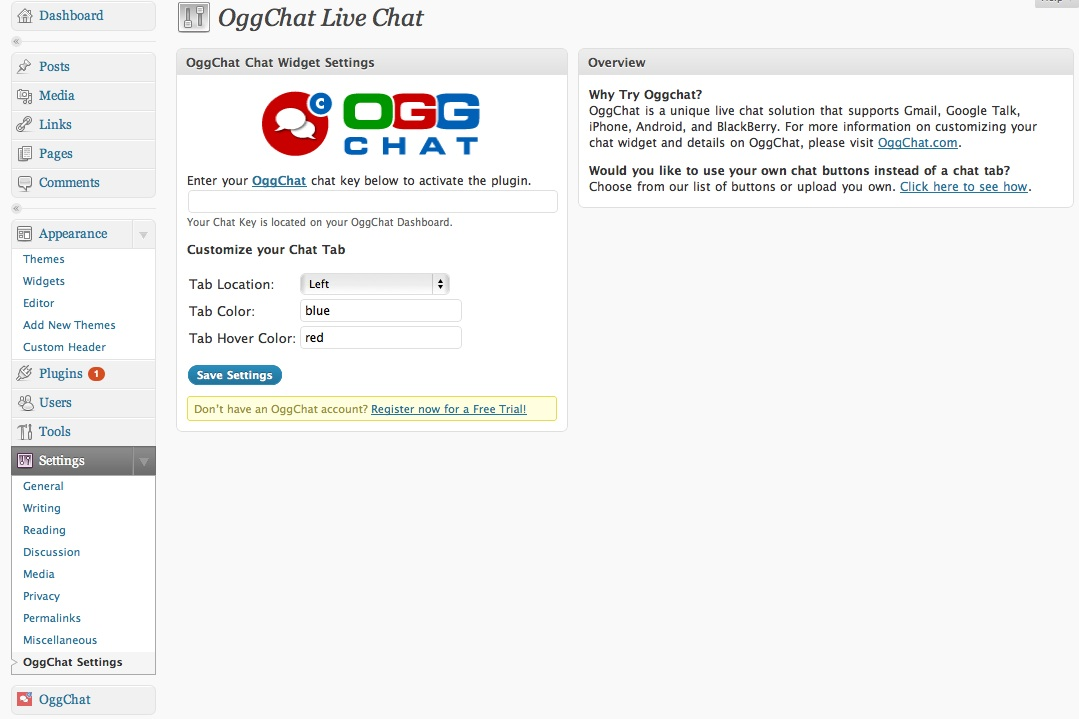
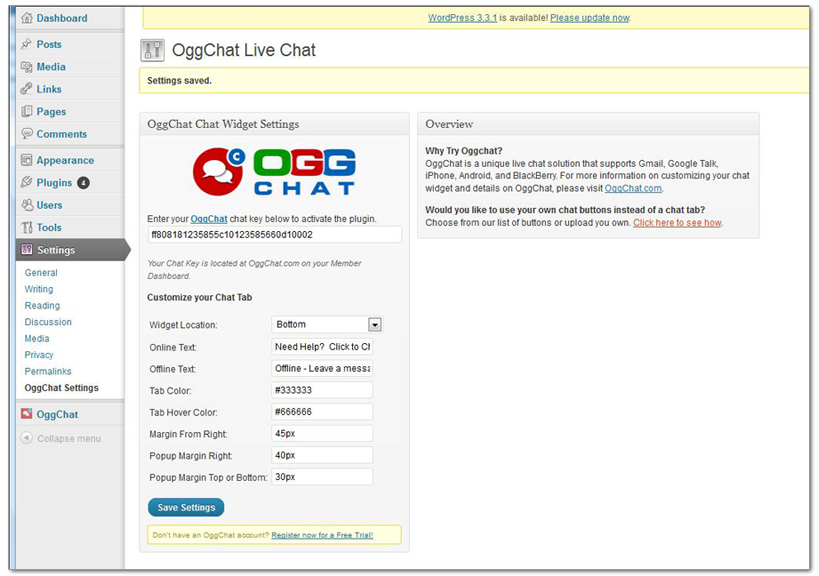
git-svn-id: https://plugins.svn.wordpress.org/oggchat-live-chat-software/trunk@485113 b8457f37-d9ea-0310-8a92-e5e31aec5664

Changed region(s): [[0.0, 0.0, 1.0, 1.0]]

diff --git a/oggchat-live-chat.php b/oggchat-live-chat.php
@@ -2,8 +2,8 @@
 /*
 Plugin Name: OggChat Live Chat Widget
 Plugin URI: http://www.oggchat.com
-Description: OggChat is a unique live chat software solution that integrates directly with Gmail, Google Talk, and Google Apps and lets you interact directly with website visitors right from your preferred Instant Messenger on your desktop , iPhone, BlackBerry, or Android mobile phone.
-Version: 1.2.5
+Description: OggChat is a unique live chat software solution that integrates directly with Gmail, Google Talk, and Google Apps and lets you interact directly with website visitors right from your preferred Instant Messenger on your desktop , iPhone, Android, or BlackBerry mobile phone.
+Version: 1.3.0
 Author: OggChat
 Author URI: http://www.oggchat.com/
 */
@@ -16,7 +16,7 @@ add_action('wp_footer', 'oggchat_insert');
 add_action('admin_notices', 'oggchat_notice');
 add_filter('plugin_action_links', 'oggchat_plugin_actions', 10, 2);
 
-define('OGGCHAT_DASHBOARD_URL', "https://oggchat2.icoa.com/member.jsp");
+define('OGGCHAT_DASHBOARD_URL', "https://oggchat3.icoa.com/member.jsp");
 define('OGGCHAT_SMALL_LOGO',$plugurldir.'/ocsq.png');
 
 function oggchat_init() {
@@ -38,17 +38,42 @@ function oggchat_insert() {
 
     if(get_option('oggchatID')) {
         get_currentuserinfo();
-        echo("\n\n<!-- Start OggChat Button <http://www.oggchat.com/> -->\n<div id=\"oggchat\"></div><script type=\"text/javascript\" src=\"https://oggchat2.icoa.com/js/button_oggchat2.js\"></script>\n<script type=\"text/javascript\">var page ={\n\t");
+        echo("\n\n<!-- OggChat Tab Button --><div id=\"oggchat\" style=\"z-index:100 \"></div><div id=\"oggwindowholder\"><span style=\"display:none\"></span></div><script type=\"text/javascript\">");
+        echo("\nvar page ={");
+        echo("\n'tab_align':'".get_option('oggchatLocation')."',");
+        echo("\n'tab_margin_right':'".get_option('oggchatMarginRight')."',");
+        echo("\n'popup_margin_right':'".get_option('oggchatPopupMarginRight')."',");
+        
+        if(get_option('oggchatLocation')=='top'){
+            echo("\n'popup_margin_top':'".get_option('oggchatPopupMarginBottom')."',");
+        } else {
+            echo("\n'popup_margin_bottom':'".get_option('oggchatPopupMarginBottom')."',");
+        }
+        echo("\n'tab_bg_color':'".get_option('oggchatTabColor')."',");
+        echo("\n'tab_hover_color':'".get_option('oggchatTabHoverColor')."',");
+        echo("\n'website':'',");
+        echo("\n'p':'".get_option('oggchatProactiveTimer')."',");
+        echo("\n'online_text':'".get_option('oggchatOnlineText')."',");
+        echo("\n'offline_text': '".get_option('oggchatOfflineText')."',");
+        echo("\n'font_family':'Arial',");
+        echo("\n'font_size':'11pt',");
+        echo("\n'font_color':'#FFFFFF', ");
+        echo("\n'host':'oggchat3.icoa.com',");
+        echo("\n'cid':'".get_option('oggchatID')."',");
+        echo("\n};");
+        echo("\n(function() {function oggchat(){");
+        echo("\nvar base = ((\"https:\" == document.location.protocol) ? \"https://oggchat3.icoa.com\" : \"http://oggchat3.icoa.com\");");
+        echo("\nvar s = document.createElement('script');s.type = 'text/javascript';s.async = true;s.src = base+'/js/oggwindow.js';");
 
-        echo("'cid' : '".get_option('oggchatID')."',");
-        echo("\n'bg_color' : '".get_option('oggchatTabColor')."',\n'hover_color' : '".get_option('oggchatTabHoverColor')."',\n'website' : 'wordpress',\n'top_margin' : '170px','right_margin' : '170px',\n'window_height' : '400px',\n'window_width' : '330px',\n'align' : '".get_option('oggchatLocation')."'}");
-
-        echo("\nbutton(page);\n</script>\n<!-- End OggChat Button <http://www.oggchat.com/>-->\n\n");
+        echo("\nvar x = document.getElementsByTagName('script')[0];x.parentNode.insertBefore(s, x);};");
+        echo("\nif (window.attachEvent)window.attachEvent('onload', oggchat);else window.addEventListener('load', oggchat, false);");
+        echo("\n})();");
+        echo("\n</script>\n\n");
     }
 }
 
 function oggchat_notice() {
-    if(!get_option('oggchatID')) echo('<div class="error"><p><strong>'.sprintf(__('OggChat Live Chat is disabled. Please go to the <a href="%s">plugin settings</a> to enter a valid chat key.' ), admin_url('options-general.php?page=oggchat-live-chat')).'</strong></p></div>');
+    if(!get_option('oggchatID')) echo('<div class="error"><p><strong>'.sprintf(__('OggChat Live Chat is disabled. Please go to the <a href="%s">plugin settings</a> to enter a valid chat key.  Your chat key can be found on your Dashboard Page after you complete the setup tasks at OggChat.com' ), admin_url('options-general.php?page=oggchat-live-chat')).'</strong></p></div>');
 }
 
 function oggchat_plugin_actions($links, $file) {
@@ -74,42 +99,55 @@ function oggchat_add_settings_page() {
                 <form method="post" action="options.php">
                     <p style="text-align:center"><?php wp_nonce_field('update-options') ?><a href="http://www.oggchat.com/" title="<?php _e('Unique live chat software that lets you chat right from Gmail, Google Talk, or your Mobile Phone', $oggchat_domain) ?>"><img src="<?php echo($plugurldir) ?>oggchat.png" height="74" width="227" alt="<?php _e('OggChat Live Chat', $oggchat_domain) ?>" /></a></p>
 
-                    <p><label for="oggchatID"><?php printf(__('Enter your %1$sIf you don\'t have an account, click here to learn more about OggChat%2$sOggChat%3$s chat key below to activate the plugin.', $oggchat_domain), '<strong><a href="http://www.oggchat.com/" title="', '">', '</a></strong>') ?></label><br /><input type="text" name="oggchatID" id="oggchatID" value="<?php echo(get_option('oggchatID')) ?>" style="width:100%" /><small class="nonessential"><?php _e('<br>Your Chat Key is located on your OggChat Dashboard.', $oggchat_domain) ?></small></p>
+                    <p><label for="oggchatID"><?php printf(__('Enter your %1$sIf you don\'t have an account, click here to learn more about OggChat%2$sOggChat%3$s chat key below to activate the plugin.', $oggchat_domain), '<strong><a href="http://www.oggchat.com/" title="', '">', '</a></strong>') ?></label><br /><input type="text" name="oggchatID" id="oggchatID" value="<?php echo(get_option('oggchatID')) ?>" style="width:100%" /><small class="nonessential"><?php _e('<br>Your Chat Key is located at OggChat.com on your Member Dashboard.', $oggchat_domain) ?></small></p>
                     <p>
                         <b>Customize your Chat Tab</b>
                     <table>
                         <tr>
-                            <td><label for="oggchatLocation">Tab Location:</label></td>
+                            <td><label for="oggchatLocation">Widget Location:</label></td>
                             <td>
                                 <select name="oggchatLocation" id="oggchatLocation" style="width:150px">
-                                    <option value="left" <?php if (get_option('oggchatLocation') == 'left') {printf('selected');}?> > Left </option>
-                                    <option value="right" <?php if (get_option('oggchatLocation') == 'right') {printf('selected');}?> > Right </option>
+<option value="bottom" <?php if (get_option('oggchatLocation') == 'bottom') {printf('selected');}?> > Bottom </option>
                                     <option value="top" <?php if (get_option('oggchatLocation') == 'top') {printf('selected');}?> > Top </option>
-                                    <option value="bottom" <?php if (get_option('oggchatLocation') == 'bottom') {printf('selected');}?> > Bottom </option>
+                                    
                                 </select>
                             </td>
                         </tr>
                         <tr>
+                            <td><label>Online Text:</label></td>
+                            <td><input type="text" name="oggchatOnlineText" id="oggchatOnlineText" value="<?php if (get_option('oggchatOnlineText') == '') {echo('Need Help?  Click to Chat');} else {echo(get_option('oggchatOnlineText'));} ?>"/></td>
+                        </tr>
+                        <tr>
+                            <td><label>Offline Text:</label></td>
+                            <td><input type="text" name="oggchatOfflineText" id="oggchatOfflineText" value="<?php if (get_option('oggchatOfflineText') == '') {echo('Offline - Leave a message');} else {echo(get_option('oggchatOfflineText'));} ?>"/></td>
+                        </tr>
+                        <tr>
                             <td><label>Tab Color:</label></td>
-                            <td><input type="text" name="oggchatTabColor" id="oggChatTabColor" value="<?php if (get_option('oggchatTabColor') == '') {echo('#0066cc');} else {echo(get_option('oggChatTabColor'));} ?>"/></td>
+                            <td><input type="text" name="oggchatTabColor" id="oggChatTabColor" value="<?php if (get_option('oggchatTabColor') == '') {echo('#333333');} else {echo(get_option('oggChatTabColor'));} ?>"/></td>
                         </tr>
                         <tr>
                             <td><label>Tab Hover Color:</label></td>
-                            <td><input type="text" name="oggchatTabHoverColor" id="oggChatTabHoverColor" value="<?php if (get_option('oggchatTabHoverColor') == '') {echo('#ff0000');} else {echo(get_option('oggChatTabHoverColor'));} ?>"/></td>
+                            <td><input type="text" name="oggchatTabHoverColor" id="oggChatTabHoverColor" value="<?php if (get_option('oggchatTabHoverColor') == '') {echo('#666666');} else {echo(get_option('oggChatTabHoverColor'));} ?>"/></td>
                         </td>
+                        </tr>
+                        <tr>
+                            <td><label>Margin From Right:</label></td>
+                            <td><input type="text" name="oggchatMarginRight" id="oggchatMarginRight" value="<?php if (get_option('oggchatMarginRight') == '') {echo('45px');} else {echo(get_option('oggchatMarginRight'));} ?>"/></td>
+                        </tr>
+                        <tr>
+                            <td><label>Popup Margin Right:</label></td>
+                            <td><input type="text" name="oggchatPopupMarginRight" id="oggchatPopupMarginRight" value="<?php if (get_option('oggchatPopupMarginRight') == '') {echo('40px');} else {echo(get_option('oggchatPopupMarginRight'));} ?>"/></td>
+                        </tr>
+                        <tr>
+                            <td><label>Popup Margin Top or Bottom:</label></td>
+                            <td><input type="text" name="oggchatPopupMarginBottom" id="oggchatPopupMarginBottom" value="<?php if (get_option('oggchatPopupMarginBottom') == '') {echo('30px');} else {echo(get_option('oggchatPopupMarginBottom'));} ?>"/></td>
                         </tr>
                     </table>
                     </p>
-
-
                     <p class="submit" style="padding:0"><input type="hidden" name="action" value="update" />
-                        <input type="hidden" name="page_options" value="oggchatID, oggchatLocation, oggchatTabColor, oggchatTabHoverColor" />
-
-
-
+                        <input type="hidden" name="page_options" value="oggchatID, oggchatLocation, oggchatTabColor, oggchatTabHoverColor, oggchatOnlineText, oggchatOfflineText, oggchatMarginRight, oggchatPopupMarginRight, oggchatPopupMarginBottom" />
                         <input type="submit" name="oggchatSubmit" id="oggchatSubmit" value="<?php _e('Save Settings', $oggchat_domain) ?>" class="button-primary" /> </p>
-
-                    <p style="font-size:smaller;color:#999239;background-color:#ffffe0;padding:0.4em 0.6em !important;border:1px solid #e6db55;-moz-border-radius:3px;-khtml-border-radius:3px;-webkit-border-radius:3px;border-radius:3px"><?php printf(__('Don&rsquo;t have an OggChat account? %1$sRegister now for a free trial!%2$sRegister now for a Free Trial!%3$s', $oggchat_domain), '<a href="https://oggchat.icoa.com/signup.jsp" title="', '">', '</a>') ?></p>			</form>
+                    <p style="font-size:smaller;color:#999239;background-color:#ffffe0;padding:0.4em 0.6em !important;border:1px solid #e6db55;-moz-border-radius:3px;-khtml-border-radius:3px;-webkit-border-radius:3px;border-radius:3px"><?php printf(__('Don&rsquo;t have an OggChat account? %1$sRegister now for a free trial!%2$sRegister now for a Free Trial!%3$s', $oggchat_domain), '<a href="https://oggchat3.icoa.com/signup.jsp" title="', '">', '</a>') ?></p>			</form>
             </div>
         </div>
         <div class="postbox" style="float:left;width:38em">
@@ -126,14 +164,8 @@ function oggchat_add_settings_page() {
 }
 
 function oggchat_create_menu() {
-
-//create new top-level menu
+    //create new top-level menu
     add_menu_page('Account Configuration', 'OggChat', 'administrator', 'OGGCHAT_dashboard', 'OGGCHAT_dashboard', OGGCHAT_SMALL_LOGO);
-
-
     add_submenu_page('OGGCHAT_dashboard', 'Dashboard', 'Dashboard', 'administrator', 'OGGCHAT_dashboard', 'OGGCHAT_dashboard');
-
-
 }
-
 ?>
